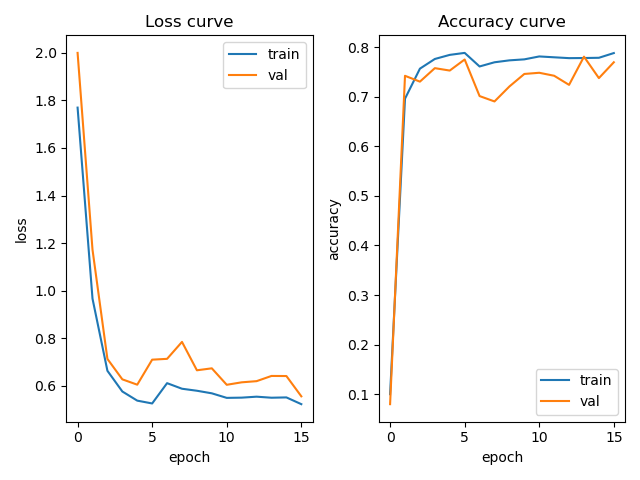
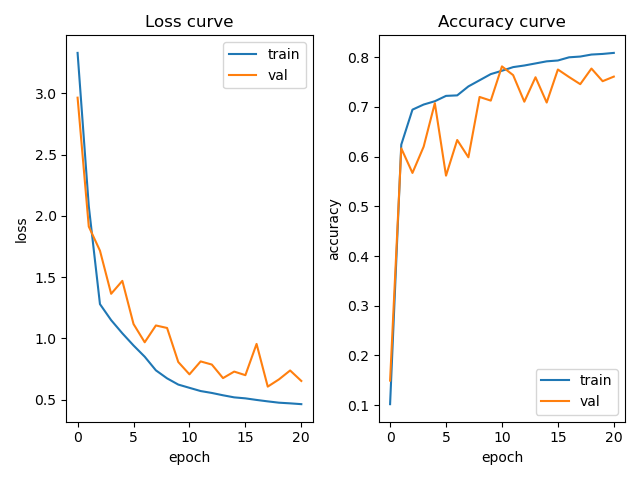
Adding final data for draft submission

diff --git a/code/helper/runner_cnn_seq2seq.py b/code/helper/runner_cnn_seq2seq.py
@@ -15,7 +15,7 @@ class RunnerCNNSeq2Seq():
     def __init__(self):
         super(RunnerCNNSeq2Seq, self).__init__()
 
-        self.temporal_len = 20
+        self.temporal_len = 10
 
         self.cuda = torch.cuda.is_available()
         self.device = torch.device("cuda" if self.cuda else "cpu")
@@ -56,10 +56,10 @@ class RunnerCNNSeq2Seq():
         )
 
         self.model = CNNSeq2SeqModel(
-            num_temporal=self.temporal_len, cnn_weights=cnn_weights
+            cnn_weights=cnn_weights
         ).to(self.device)
 
-        self.num_train_epochs = 10
+        self.num_train_epochs = 20
 
         self.batch_log_interval = 250
 
@@ -126,17 +126,30 @@ class RunnerCNNSeq2Seq():
 
         for batch in self.test_loader:
             X = batch[0].to(self.device)
-            y = torch.flatten(batch[1].to(self.device))
+            y = batch[1]
 
-            model_output = self.model(X).reshape(-1, 5)
+            curr_prediction = []
+            curr_target = []
+            for start_idx in range(0, X.shape[1], self.temporal_len):
+                X_split = X[:, start_idx:start_idx+self.temporal_len, :]
+                y_split = torch.flatten(
+                    y[:, start_idx:start_idx+self.temporal_len])
 
-            # compute the accuracy
-            prediction_list.append(torch.flatten(torch.argmax(
-                model_output, dim=1
-            )).detach().cpu().numpy().astype(int))
-            target_list.append(
-                y.detach().cpu().numpy().astype(int)
-            )
+                model_output = self.model(X_split).reshape(-1, 5)
+
+                # compute the accuracy
+                curr_prediction.append(torch.flatten(torch.argmax(
+                    model_output, dim=1
+                )).detach().cpu().numpy().astype(int))
+                curr_target.append(
+                    y_split.detach().cpu().numpy().astype(int)
+                )
+
+            curr_prediction = np.concatenate(curr_prediction)
+            curr_target = np.concatenate(curr_target)
+
+            prediction_list.append(curr_prediction)
+            target_list.append(curr_target)
 
         self.model.train()
 

diff --git a/code/models/cnn_seq2seq.py b/code/models/cnn_seq2seq.py
@@ -10,7 +10,7 @@ import torch.nn as nn
 
 
 class CNNSeq2SeqModel(nn.Module):
-    def __init__(self, num_temporal, cnn_weights=None):
+    def __init__(self, cnn_weights=None):
         super(CNNSeq2SeqModel, self).__init__()
 
         self.num_labels = 5
@@ -201,10 +201,10 @@ class TransformerModel(nn.Module):
             self.src_mask = mask
 
         # src = self.encoder(src) * math.sqrt(self.ninp)
-        src = src * math.sqrt(self.ninp)
+        # src = src * math.sqrt(self.ninp)
         src = self.pos_encoder(src)
-        output = self.transformer_encoder(src, self.src_mask)  # with mask
-        # output = self.transformer_encoder(src)  # no mask
+        # output = self.transformer_encoder(src, self.src_mask)  # with mask
+        output = self.transformer_encoder(src)  # no mask
         output = self.decoder(output)
         return output
 
